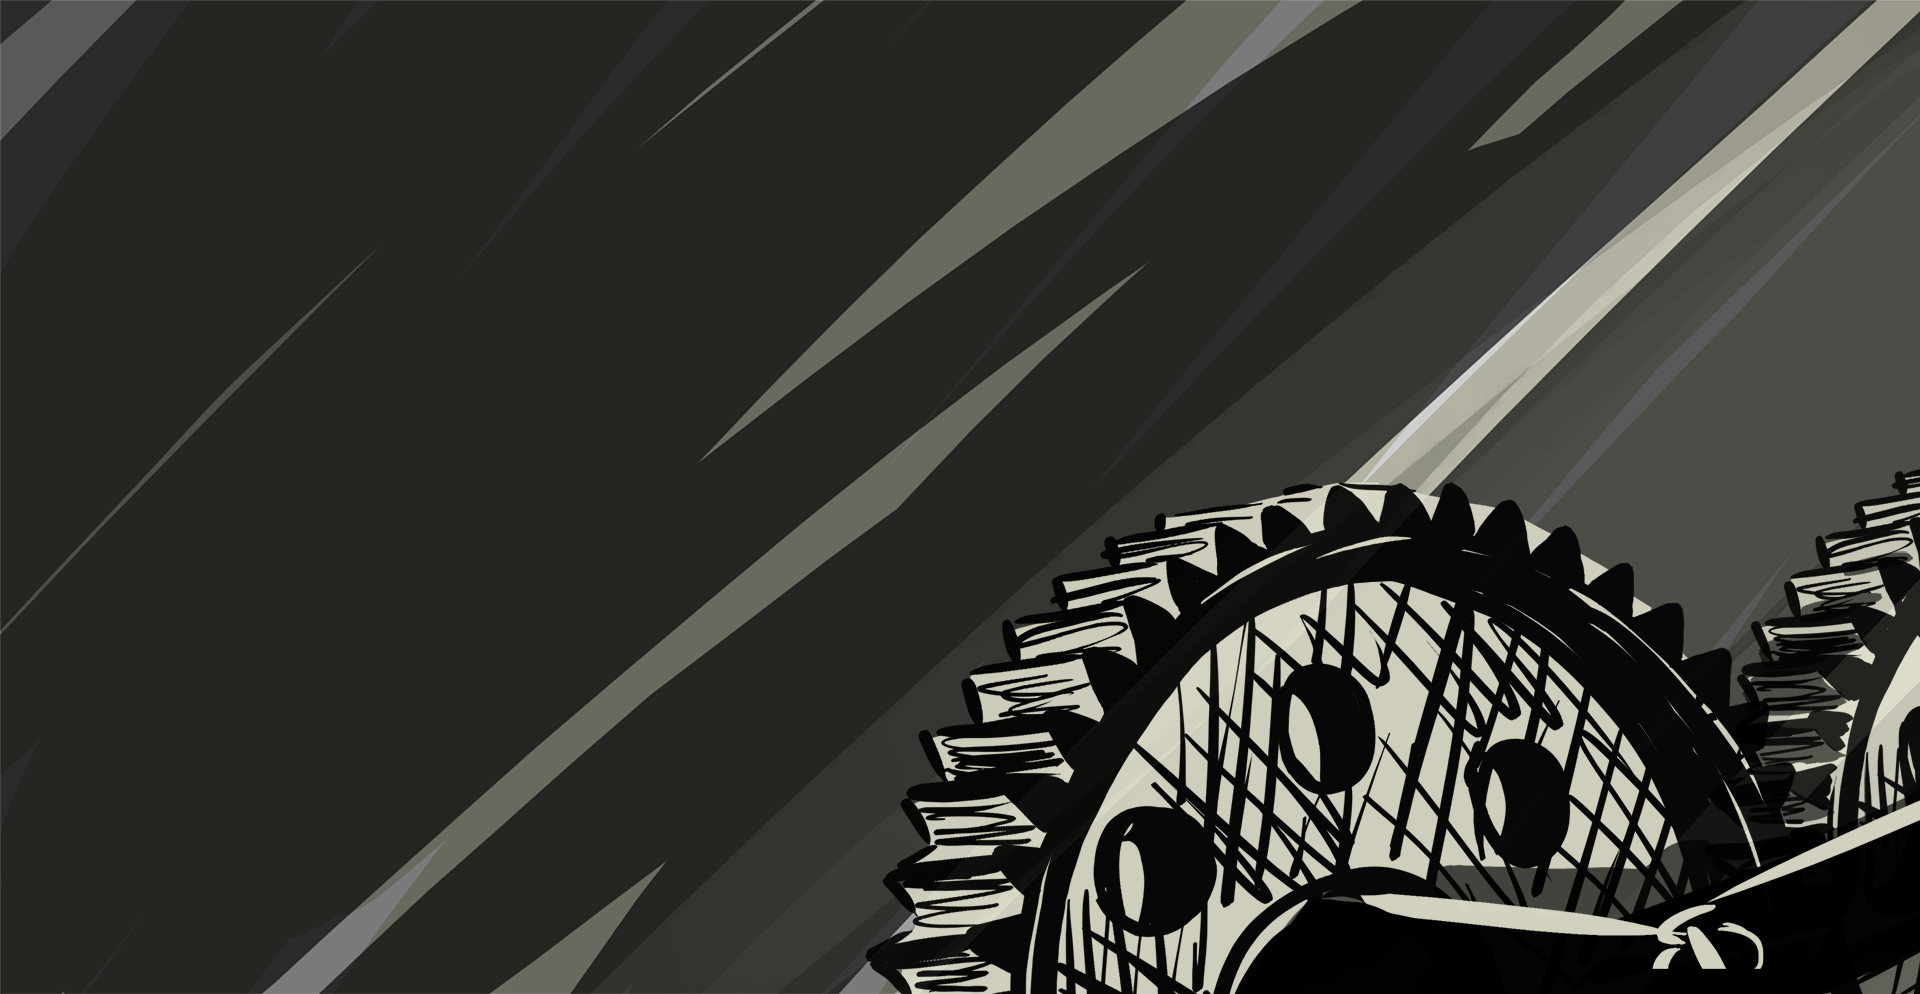
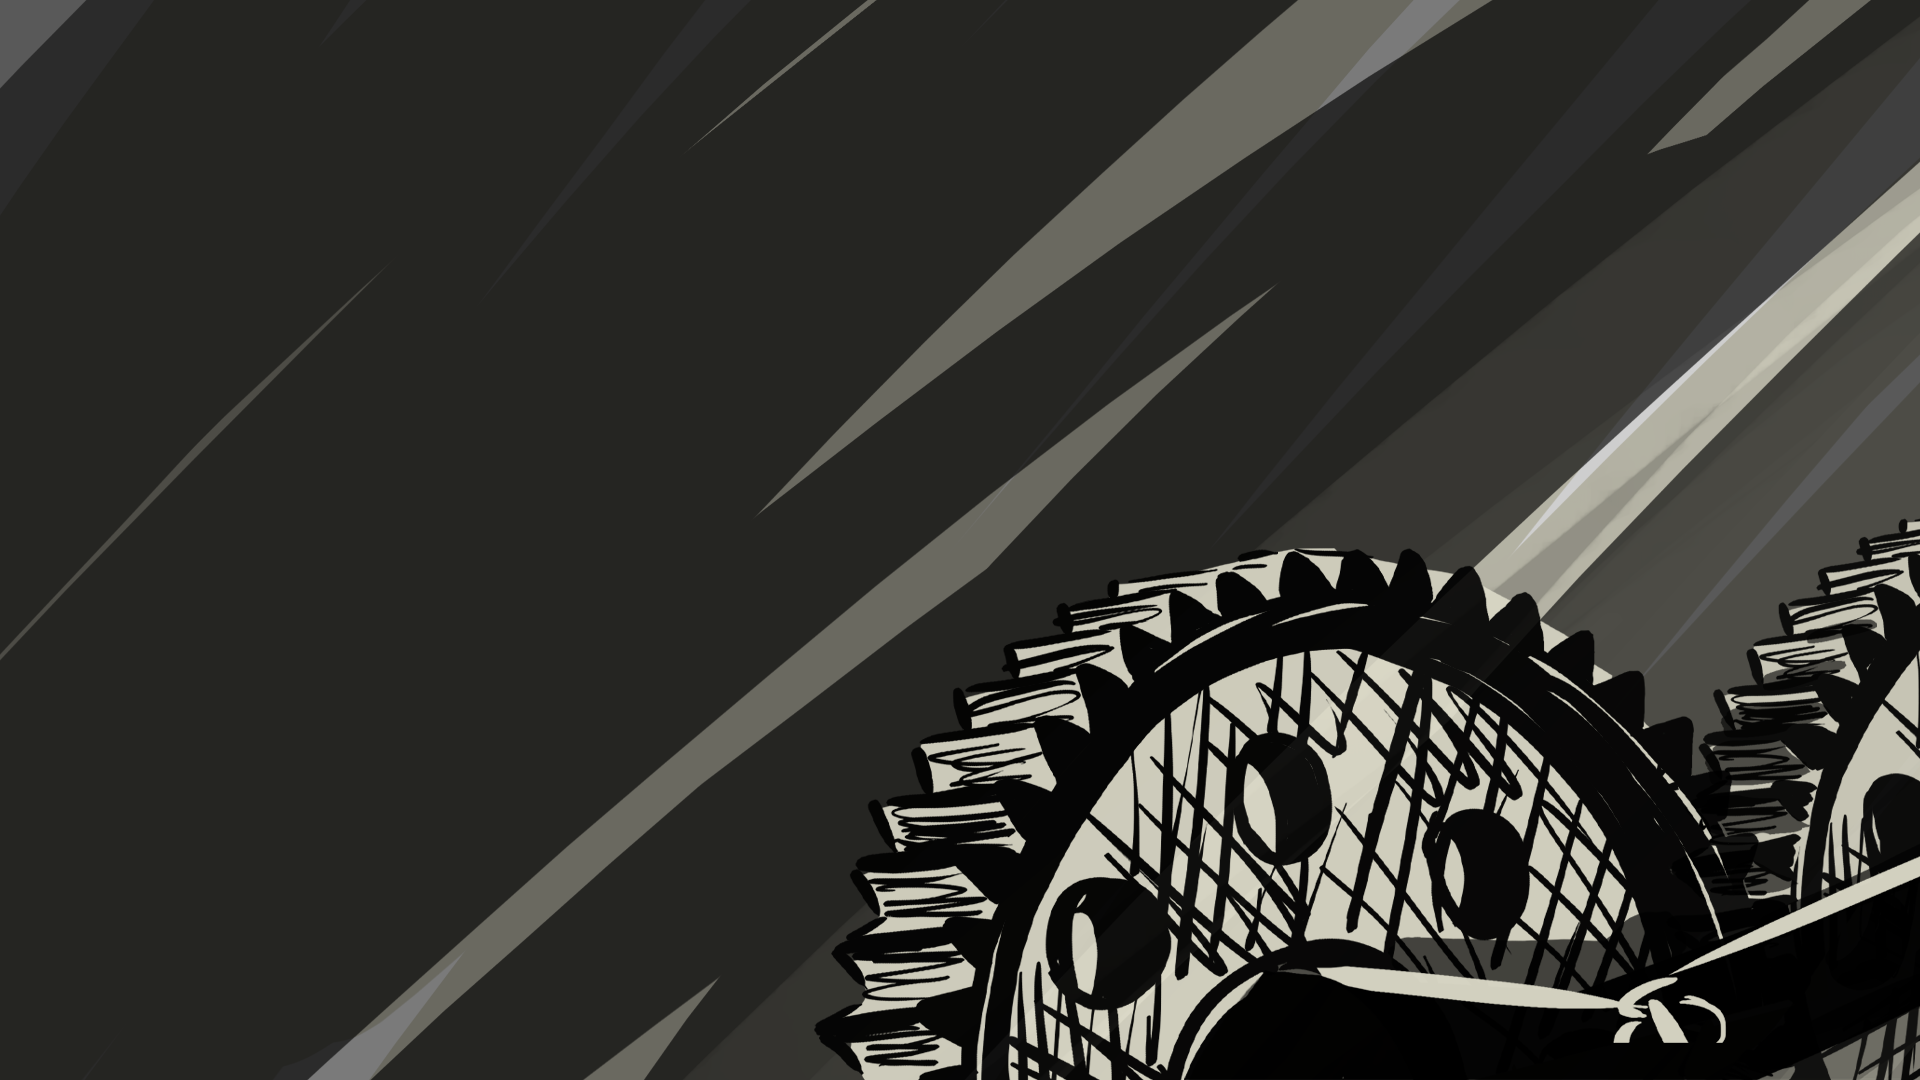
active OverlayMapItem switching, description generation from separate file

diff --git a/src/components/Carousel/Carousel.tsx b/src/components/Carousel/Carousel.tsx
@@ -2,11 +2,12 @@
 import CarouselContextProvider from "../CarouselContext/CarouselContext";
 import wspolpracaXXL from "/wspolpraca2560.png";
 import wspolpracaL from "/wspolpraca1920.png";
-import wspolpracaM from "/wspolpraca920.png";
+import wspolpracaM from "/wspolpraca1024.png";
+import wspolpracaS from "/wspolpraca640.png";
 import * as P from "./Carousel.parts";
 import CarouselOverlay from "../CarouselOverlay/CarouselOverlay";
 
-const images = [wspolpracaXXL, wspolpracaL, wspolpracaM];
+const images = [wspolpracaXXL, wspolpracaL, wspolpracaM, wspolpracaS];
 //todo
 // function generateSources() {
 // images.map((image) => <source srcSet={image} media={breakpointsNoMedia.image.})
@@ -19,10 +20,14 @@ export default function Carousel() {
         <P.ImgWrapper>
           {/* <P.StyledImg src={wspolpraca} /> */}
           <P.StyledPicture>
-            <source srcSet={wspolpracaXXL} media="(min-width: 1921px)" />
-            <source srcSet={wspolpracaL} media="(min-width: 901px)" />
-            <source srcSet={wspolpracaM} media="(max-width: 900px)" />
-            <P.StyledImg src={wspolpracaM} />
+            <P.StyledSource
+              srcSet={wspolpracaXXL}
+              media="(min-width: 1921px)"
+            />
+            <P.StyledSource srcSet={wspolpracaL} media="(min-width: 1025px)" />
+            <P.StyledSource srcSet={wspolpracaM} media="(min-width: 641px)" />
+            <P.StyledSource srcSet={wspolpracaS} media="(max-width: 640px)" />
+            <P.StyledImg src={wspolpracaL} />
             <P.StyledP>
               Quis est incididunt pariatur culpa.Ut ad nostrud nulla
               reprehenderit ullamco do amet sint.

diff --git a/src/components/CarouselOverlayMap/CarouselOverlayMap.tsx b/src/components/CarouselOverlayMap/CarouselOverlayMap.tsx
@@ -1,14 +1,19 @@
 import * as P from "./CarouselOverlayMap.parts";
 import CarouselOverlayMapItem from "../CarouselOverlayMapItem/CarouselOverlayMapItem";
+import { mapItemDescriptions } from "../../data/TopCarouselData";
+import { useCarouselContext } from "../CarouselContext/CarouselContext";
 
 export default function CarouseOverlayMap() {
-  return (
-    <P.MapWrapper>
-      <CarouselOverlayMapItem />
-      <CarouselOverlayMapItem />
-      <CarouselOverlayMapItem />
-      <CarouselOverlayMapItem />
-      <CarouselOverlayMapItem />
-    </P.MapWrapper>
-  );
+  const { activeImage } = useCarouselContext();
+  function generateMapItems(mapItemDescriptions: string[]) {
+    return mapItemDescriptions.map((descritption, idx) => (
+      <CarouselOverlayMapItem
+        key={descritption}
+        isActive={activeImage === idx}
+        description={descritption}
+      />
+    ));
+  }
+
+  return <P.MapWrapper>{generateMapItems(mapItemDescriptions)}</P.MapWrapper>;
 }

diff --git a/src/components/Carousel/Carousel.parts.ts b/src/components/Carousel/Carousel.parts.ts
@@ -2,27 +2,39 @@ import styled from "styled-components";
 
 export const CarouselWrapper = styled.div`
   position: relative;
-  height: 800px;
+  height: auto;
   background-color: gray;
 `;
 
 export const StyledImg = styled.img``;
 
 export const StyledPicture = styled.picture`
-  position: absolute;
-  bottom: 0;
-  right: 0;
+  /* position: relative; */
+  /* bottom: 0; */
+  /* right: 0; */
+`;
+
+export const StyledSource = styled.source`
+  /* position: absolute; */
+  /* bottom: 0; */
+  /* right: 0; */
 `;
 
 export const StyledP = styled.p`
   position: absolute;
-  left: 45%;
-  top: 30%;
-  font-size: 3rem;
-  width: 600px;
+  left: 50%;
+  top: 15%;
+  transform: translateX(-50%);
+  font-size: 2.5rem;
+  /* width: 380px; */
+  color: beige;
+  text-align: center;
 `;
 
 export const ImgWrapper = styled.div`
+  display: flex;
+  justify-content: flex-end;
+  align-items: flex-start;
   height: 100%;
   width: 100%;
 `;

diff --git a/src/components/CarouselOverlayMapItem/CarouselOverlayMapItem.tsx b/src/components/CarouselOverlayMapItem/CarouselOverlayMapItem.tsx
@@ -1,12 +1,20 @@
 import * as P from "./CarouselOverlayMapItem.parts";
 import ProgressBar from "../ProgressBar/ProgressBar";
 
-export default function CarouselOverlayMapItem() {
+interface CarouselOverlayMapItemProps {
+  description: string;
+  isActive: boolean;
+}
+
+export default function CarouselOverlayMapItem({
+  description,
+  isActive,
+}: CarouselOverlayMapItemProps) {
   return (
     <P.MapItemWrapper>
-      <ProgressBar />
+      <ProgressBar isActive={isActive} />
       <P.DescriptionWrapper>
-        <P.Description>Veniam pariatur.</P.Description>
+        <P.Description>{description}</P.Description>
       </P.DescriptionWrapper>
     </P.MapItemWrapper>
   );

diff --git a/src/components/ProgressBar/ProgressBar.tsx b/src/components/ProgressBar/ProgressBar.tsx
@@ -1,12 +1,15 @@
 import * as P from "./ProgressBar.parts";
 import { useCarouselContext } from "../CarouselContext/CarouselContext";
 
-export default function ProgressBar() {
+interface ProgressBarProps {
+  isActive: boolean;
+}
+
+export default function ProgressBar({ isActive }: ProgressBarProps) {
   const { progress } = useCarouselContext();
-  console.log(progress);
   return (
     <P.ProgressBarContainer>
-      <P.ProgressBarFiller $progress={progress} />
+      <P.ProgressBarFiller $isActive={isActive} $progress={progress} />
     </P.ProgressBarContainer>
   );
 }

diff --git a/src/components/ProgressBar/ProgressBar.parts.ts b/src/components/ProgressBar/ProgressBar.parts.ts
@@ -7,8 +7,11 @@ export const ProgressBarContainer = styled.div`
   opacity: 1;
 `;
 
-export const ProgressBarFiller = styled.div<{ $progress: number }>`
-  width: ${({ $progress }) => $progress}%;
+export const ProgressBarFiller = styled.div<{
+  $progress: number;
+  $isActive: boolean;
+}>`
+  width: ${({ $isActive, $progress }) => ($isActive ? $progress : 0)}%;
   height: 100%;
   background-color: #f1db13;
 `;

diff --git a/src/components/CarouselContext/CarouselContext.tsx b/src/components/CarouselContext/CarouselContext.tsx
@@ -26,6 +26,7 @@ const CarouselContextProvider = ({
   const [activeImage, setActiveImgae] = useState(0);
   const [progress, setProgress] = useState(0);
   const step = useMemo(() => normalizeStep(INTERVAL, SLIDE_LENGTH_MS), []);
+  console.log(activeImage);
 
   useEffect(() => {
     const progressInterval = setInterval(() => {

diff --git a/src/data/TopCarouselData.ts b/src/data/TopCarouselData.ts
@@ -1,0 +1,7 @@
+export const mapItemDescriptions = [
+  "Aliqua ut est ut dolore mollit dolore",
+  "Anim eu mollit incididunt magna incididunt consectetur",
+  "proident dolore laboris aliquip",
+  "Lorem consectetur labore minim sit occaecat eu laboris",
+  "Culpa minim cillum dolor quis eu veniam",
+];
